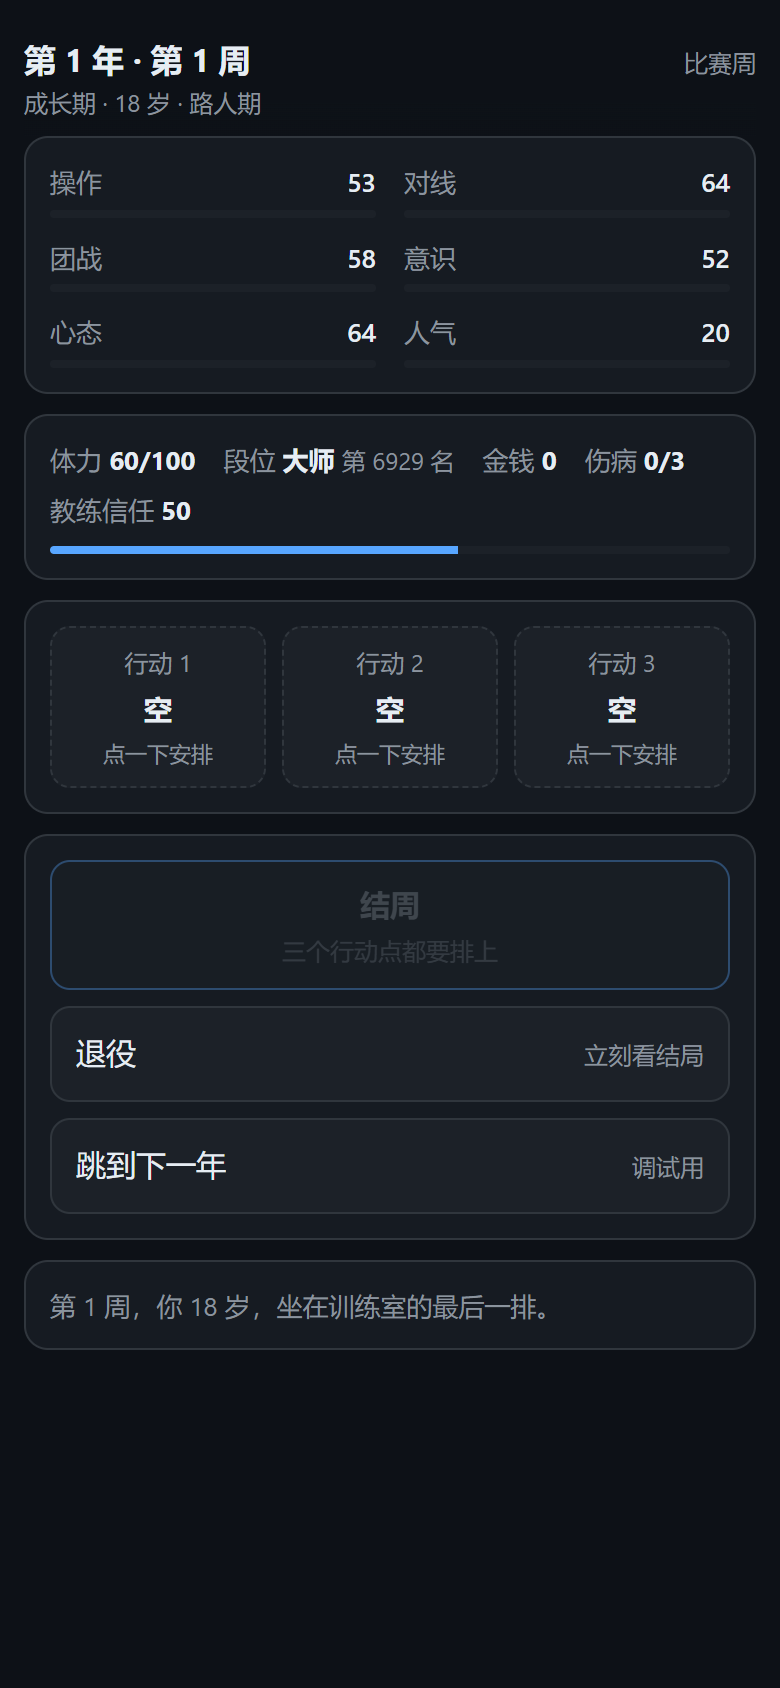
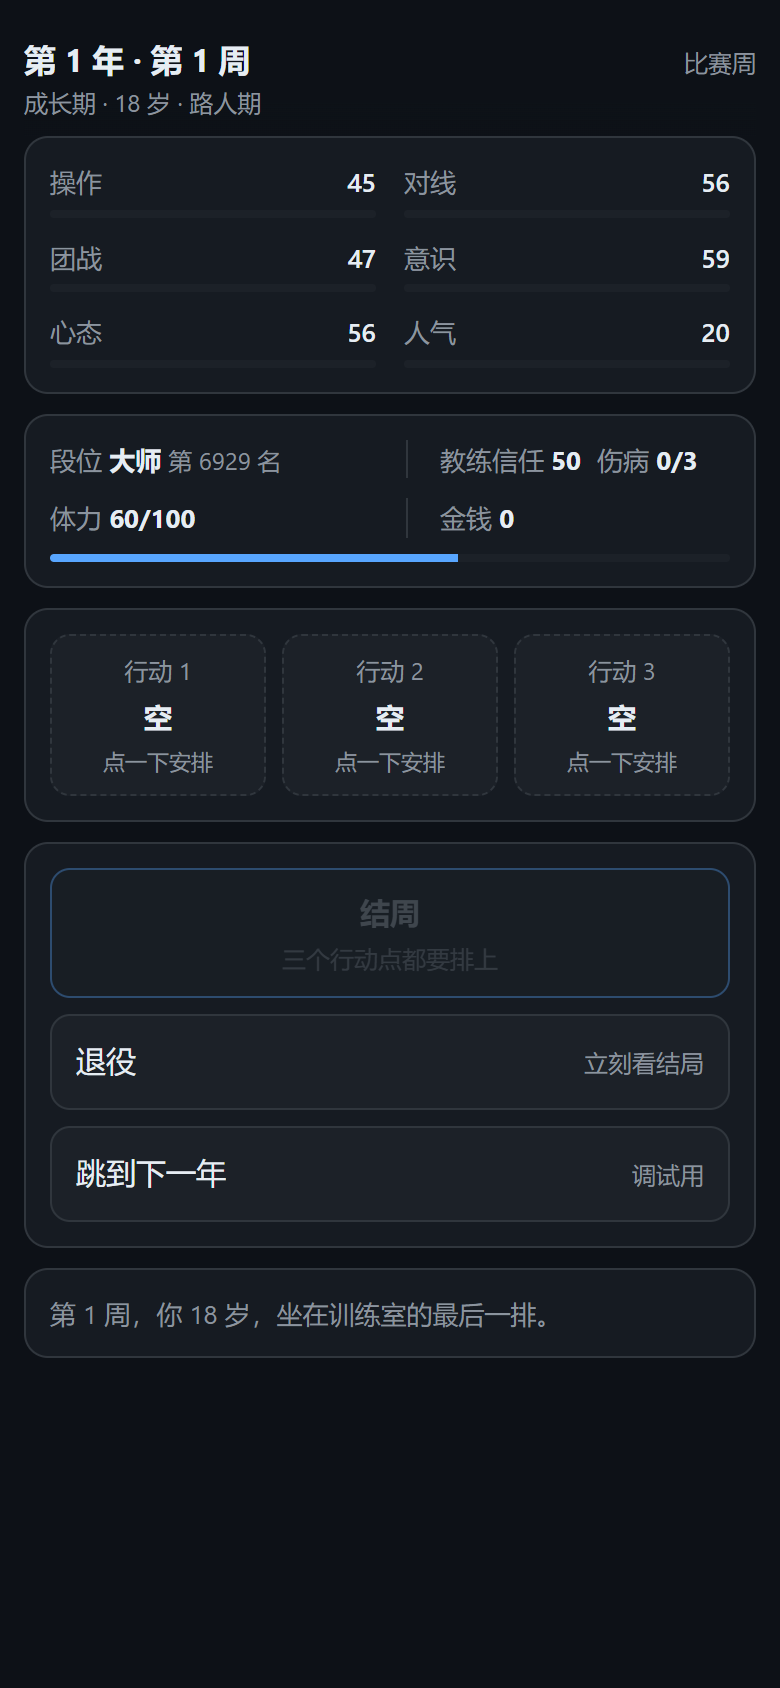
feat: 伤病≥2 不能上场；状态行按「挡什么」分成四组

diff --git a/src/ui/main.ts b/src/ui/main.ts
@@ -62,11 +62,10 @@ function renderMeta(): string {
   const staminaPct = Math.round((state.stamina / state.maxStamina) * 100);
   return `<div class="panel">
     <div class="meta">
-      <span>体力 <b>${state.stamina}/${state.maxStamina}</b></span>
-      <span>段位 <b>${rankOf(state.rankPoints, state.placement).name}</b> <span class="mini">第 ${state.placement} 名</span></span>
-      <span>金钱 <b>${state.money}</b></span>
-      <span>伤病 <b>${state.injury}/3</b></span>
-      <span>教练信任 <b>${state.coachTrust}</b></span>
+      <span class="grp"><span>段位 <b>${rankOf(state.rankPoints, state.placement).name}</b> <span class="mini">第 ${state.placement} 名</span></span></span>
+      <span class="grp"><span>教练信任 <b>${state.coachTrust}</b></span><span>伤病 <b>${state.injury}/3</b></span></span>
+      <span class="grp"><span>体力 <b>${state.stamina}/${state.maxStamina}</b></span></span>
+      <span class="grp"><span>金钱 <b>${state.money}</b></span></span>
     </div>
     <div class="bar" style="margin-top:8px"><i style="width:${staminaPct}%"></i></div>
   </div>`;

diff --git a/tests/core.test.ts b/tests/core.test.ts
@@ -6,7 +6,7 @@ import { advanceYear, gainExp } from '../src/core/growth';
 import { autoMatch, applyMatchOutcome } from '../src/core/match';
 import { normalEnding, specialEnding } from '../src/core/endings';
 import { drawEvent, successRateOf } from '../src/core/events';
-import { canPlay } from '../src/core/match';
+import { canPlay, benchReason } from '../src/core/match';
 import { createRng } from '../src/rng';
 import { fromSaveJson, toSaveJson } from '../src/core/save';
 import { loadSaved, persist } from '../src/core/save';
@@ -367,6 +367,18 @@ describe('出场判定', () => {
     s.signed = true;
     s.injury = 3;
     expect(canPlay(s)).toBe(false);
+  });
+
+  it('伤病到 2 就上不了场，1 还能打', () => {
+    const s = newGame(1);
+    s.week = 5;
+    s.signed = true;
+    s.coachTrust = CONFIG.match.benchThreshold + 30;
+    s.injury = 1;
+    expect(canPlay(s)).toBe(true);
+    s.injury = 2;
+    expect(canPlay(s)).toBe(false);
+    expect(benchReason(s)).toContain('上不了场');
   });
 
   it('教练信任低于替补线不上场，高于则能打', () => {

diff --git a/src/core/match.ts b/src/core/match.ts
@@ -8,7 +8,7 @@ import { clamp, effectiveAttr, isMatchWeek } from './state';
 export function canPlay(state: GameState): boolean {
   if (!isMatchWeek(state.week)) return false;
   if (!state.signed) return false;
-  if (state.injury >= CONFIG.match.injuryMax) return false;
+  if (state.injury >= CONFIG.match.injuryBench) return false;
   if (state.coachTrust < CONFIG.match.benchThreshold) return false;
   return true;
 }
@@ -17,6 +17,7 @@ export function canPlay(state: GameState): boolean {
 export function benchReason(state: GameState): string | null {
   if (!state.signed) return null;
   if (state.injury >= CONFIG.match.injuryMax) return '你伤停了，这赛季剩下的时间都在康复室。';
+  if (state.injury >= CONFIG.match.injuryBench) return '伤到这个程度上不了场，这周只能养。';
   if (state.coachTrust < CONFIG.match.demoteThreshold) return '你被下放了，没有比赛可打。';
   if (state.coachTrust < CONFIG.match.benchThreshold) return '你坐替补席，看完了整场。';
   return null;

diff --git a/src/ui/style.css b/src/ui/style.css
@@ -98,11 +98,22 @@ body {
 }
 
 .meta {
-  display: flex;
-  flex-wrap: wrap;
-  gap: 6px 14px;
+  display: grid;
+  grid-template-columns: 1fr 1fr;
+  align-items: center;
+  gap: 10px 16px;
   font-size: 13px;
   color: var(--muted);
+}
+/* 分组：组内 8px，两组之间一条竖线 */
+.meta .grp {
+  display: flex;
+  align-items: center;
+  gap: 8px;
+}
+.meta .grp:nth-child(even) {
+  padding-left: 16px;
+  border-left: 1px solid var(--line);
 }
 .meta b {
   color: var(--fg);

diff --git a/src/config.ts b/src/config.ts
@@ -126,6 +126,8 @@ export const CONFIG = {
     injuryChance: 0.12,
     /** 伤病上限，到这个数就是赛季报销。 */
     injuryMax: 3,
+    /** 伤到这个数就上不了场（还能做别的行动）。 */
+    injuryBench: 2,
     /** 替补席与下放的教练信任阈值。 */
     benchThreshold: 25,
     demoteThreshold: 10,
